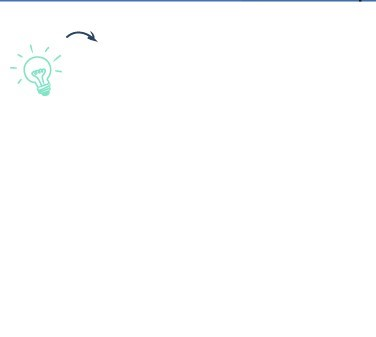
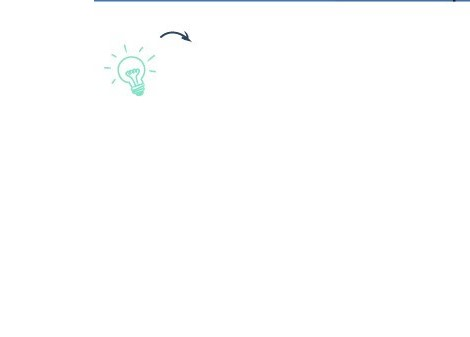
ni idea

diff --git a/index.html b/index.html
@@ -10,7 +10,6 @@
     <link rel="stylesheet" type="text/css" media="screen" href="styles.css">
     <link rel="stylesheet" type="text/css" media="screen" href="styles700.css">
     <link rel="stylesheet" href="https://use.fontawesome.com/releases/v5.8.1/css/all.css" integrity="sha384-50oBUHEmvpQ+1lW4y57PTFmhCaXp0ML5d60M1M7uH2+nqUivzIebhndOJK28anvf" crossorigin="anonymous">    
-    <!-- <script src="main.js"></script> -->
 </head>
 
 <body>
@@ -22,7 +21,7 @@
                     <a href="https://twitter.com/SergioMassa" target="_blank"><i class="fab fa-twitter"></i></a>
                     <a href="https://www.facebook.com/SergioMassaOK/" target="_blank"><i class="fab fa-facebook-f"></i></a>
                     <a href="https://www.instagram.com/sergiomassaok" target="_blank"><i class="fab fa-instagram"></i></a>
-                    <a href="https://twitter.com/SergioMassa" target="_blank"><i class="fab fa-linkedin"></i></a>
+                    <a href="https://www.linkedin.com/in/massasergio/ " target="_blank"><i class="fab fa-linkedin"></i></a>
             </div>
             <div class="divTitle">
                 <p id="pTitle">PONGAMOS A LA ARGENTINA DE PIE</p>
@@ -35,15 +34,18 @@
          </section>                                   
     </section>
     <div id="divContent">
+        <div class="marginLeft">
+                <!-- <img src="img/ArgentinaDePie_ContentBackground_MarginLeft.jpg" alt="..." class="img-thumbnail"> -->
+        </div>
         <section class="gridOptions">
             <div id="divBlock"></div>            
-            <div id="divTextElegi">Elegí en que categoria entra tu idea.</div>              
+            <div id="divTextElegi">Elegí en qué categoría entra tu idea.</div>              
             <div class="divCategoria">                
                 <button class="btnCategoria" id="btnCategoriaCrecimiento" data-toggle="collapse" data-target="#crecimiento">CRECIMIENTO Y DESARROLLO</button>                                     
             </div>
             <div class="divFormulario collapse" id="crecimiento">
                 <div class="textFormulario">
-                    <p class="pCategorias">¿Qué politicas creés que deben llevarse a cabo para que podamos tener un pais con un crecimiento y desarrollo sostenido?</p>
+                    <p class="pCategorias">¿Qué políticas creés que deben llevarse a cabo para que podamos tener un país con un crecimiento y desarrollo sostenido?</p>
                     <p class="pContanos">¡CONTANOS!</p>
                     <div class="input-group">                            
                         <textarea class="form-control" aria-label="With textarea"></textarea>
@@ -155,7 +157,7 @@
             </div>
             <div class="divFormulario collapse" id="trabajo">
                 <div class="textFormulario">
-                    <p class="pCategorias">¿Qué se te ocurre para asegurar trabajo digno para todos?</p>
+                    <p class="pCategorias">¿Qué se te ocurre para asegurar trabajo digno para todas y todos?</p>
                     <p class="pContanos">¡CONTANOS!</p>
                     <div class="input-group">                            
                         <textarea class="form-control" aria-label="With textarea"></textarea>
@@ -183,7 +185,7 @@
             </div>
             <div class="divFormulario collapse" id="delito">
                 <div class="textFormulario">
-                    <p class="pCategorias">Escribí acá si tenés alguna idea, para que todos podamos vivir seguros y en paz.</p>
+                    <p class="pCategorias">Escribí acá si tenés alguna idea, para que todas y todos podamos vivir seguros y en paz.</p>
                     <p class="pContanos">¡CONTANOS!</p>
                     <div class="input-group">                            
                         <textarea class="form-control" aria-label="With textarea"></textarea>
@@ -267,7 +269,7 @@
             </div>
             <div class="divFormulario collapse" id="modernizacion">
                 <div class="textFormulario">
-                    <p class="pCategorias">¿Qué ideas se te ocurren para construir un gobierno más transparente y que responda mejor a las necesidades de los argentinos?</p>
+                    <p class="pCategorias">¿Qué ideas se te ocurren para construir un Gobierno más transparente y que responda mejor a las necesidades de los argentinos?</p>
                     <p class="pContanos">¡CONTANOS!</p>
                     <div class="input-group">                            
                         <textarea class="form-control" aria-label="With textarea"></textarea>
@@ -295,7 +297,7 @@
             </div>
             <div class="divFormulario collapse" id="desarrollofederal">
                 <div class="textFormulario">
-                    <p class="pCategorias">¿Qué idea tenés para lograr que, sin importar en qué provincia nazcas, las oportunidades sean igual para todas y todos?</p>
+                    <p class="pCategorias">¿Qué idea tenés para lograr que, sin importar en qué provincia nazcas, las oportunidades sean iguales para todas y todos?</p>
                     <p class="pContanos">¡CONTANOS!</p>
                     <div class="input-group">                            
                         <textarea class="form-control" aria-label="With textarea"></textarea>
@@ -347,6 +349,7 @@
                 </div>
             </div>             
         </section>
+        <div class="marginRight"></div>
     </div>
 
     <div class="footer">
@@ -358,7 +361,7 @@
                         <a href="https://twitter.com/SergioMassa" target="_blank"><i style="padding:0" class="fab fa-linkedin fabBottom"></i></a>
                 </div>
                 <div class="hayAlternativa">
-                    @HayAlternativa
+                    #HayAlternativa
                 </div>
         </div>
     </div>
@@ -368,30 +371,52 @@
     <script src="https://code.jquery.com/jquery-3.3.1.slim.min.js" integrity="sha384-q8i/X+965DzO0rT7abK41JStQIAqVgRVzpbzo5smXKp4YfRvH+8abtTE1Pi6jizo" crossorigin="anonymous"></script>
     <script src="https://cdnjs.cloudflare.com/ajax/libs/popper.js/1.14.7/umd/popper.min.js" integrity="sha384-UO2eT0CpHqdSJQ6hJty5KVphtPhzWj9WO1clHTMGa3JDZwrnQq4sF86dIHNDz0W1" crossorigin="anonymous"></script>
     <script src="https://stackpath.bootstrapcdn.com/bootstrap/4.3.1/js/bootstrap.min.js" integrity="sha384-JjSmVgyd0p3pXB1rRibZUAYoIIy6OrQ6VrjIEaFf/nJGzIxFDsf4x0xIM+B07jRM" crossorigin="anonymous"></script>
-    <script>
     
-            var white = false
-            var bgcolor;
-            
-            jQuery(document).ready(function () 
-            {
+    <script>
 
-                jQuery("#btnCategoriaCrecimiento").click(function () 
-                {                       
-                    // alert("btn2");                
-                    bgcolor = $(this).css('backgroundColor');      
-                    // alert($(this));                                  
-                    console.log($(this));
-                    if (bgcolor == "rgb(151, 37, 130)") 
-                    {                                        
-                        $(this).css("background-color", "#004466");
-                    } 
-                    else 
-                    {                        
-                        $(this).css("background-color", rgb(151, 37, 130));
-                    }                    
-                });
+        
+
+        $('.divFormulario').click(function(e){
+            alert("fn");
+
+            var all_toggle = $('.divFormulario').hide();
+
+            var thisToggle = $(this).parent().find('.divFormulario'),
+                isShowing = thisSpan.is(":visible");
+
+            // Hide all spans
+            all_toggle.hide();
+
+            // If our span *wasn't* showing, show it
+            if (!isShowing) {
+                thisSpan.show();
+            }
+
+            e.preventDefault();
         });
-            </script>
+            
+        //     var white = false
+        //     var bgcolor;        
+            
+        //     jQuery(document).ready(function () 
+        //     {
+
+        //         jQuery("#btnCategoriaCrecimiento").click(function () 
+        //         {                       
+        //             // alert("btn2");                
+        //             bgcolor = $(this).css('backgroundColor');      
+        //             // alert($(this));                                  
+        //             console.log($(this));
+        //             if (bgcolor == "rgb(151, 37, 130)") 
+        //             {                                        
+        //                 $(this).css("background-color", "#004466");
+        //             } 
+        //             else 
+        //             {                        
+        //                 $(this).css("background-color", rgb(151, 37, 130));
+        //             }                    
+        //         });
+        // });
+        </script>
 </body>
 </html>

diff --git a/styles.css b/styles.css
@@ -23,11 +23,11 @@
 
     body 
     {    
-    background: #f5f7f8;
-    margin:0;
-    color:white;
-    text-align: center;
-    font-family: chivoBold;
+        background: #f5f7f8;
+        margin:0;
+        color:white;
+        text-align: center;
+        font-family: chivoBold;
     }
 
     .btnMasCategorias
@@ -35,44 +35,41 @@
         display:none;
     }
 
-  .fab
-  {
+    .fab
+    {
     color:white;
     padding:3vh;
-  }
+    }
   
-  p
-  {
+    p
+    {
     margin:0 !important;
-  }
+    }
 
-  hr
-  {
-      /* margin:0 10vw 0 10vw !important; */
-      margin:0 !important;      
-      border-top: 2px solid white;
-  }
+    hr
+    {
+        /* margin:0 10vw 0 10vw !important; */
+        margin:0 !important;      
+        border-top: 2px solid white;
+    }
 
 
-  .gridPrincipal
-  {
-    /* display: grid; */
-    width: 100vw;
-    height: fit-content;
-    /* min-height: 220px; */
-    /* max-width: 100%; */
-    margin:0 auto;
-    background-image: url(img/ArgentinaDePie_HeaderBackground.jpg);
-    background-position: center;
-    background-repeat: no-repeat;
-    /* display: block; */
-    background-size:cover;    
-    /* grid-template-columns: 1fr; */
-    grid-template-rows: auto;
-    /* grid-template-areas: "header"
-                         "main"
-                         "footer"; */
-  }
+    .gridPrincipal
+    {    
+        width: 100vw;
+        height: fit-content;
+        margin:0 auto;
+        background-image: url(img/ArgentinaDePie_HeaderBackground.jpg);
+        background-position: center;
+        background-repeat: no-repeat;
+        /* display: block; */
+        background-size:cover;    
+        /* grid-template-columns: 1fr; */
+        grid-template-rows: auto;
+        /* grid-template-areas: "header"
+                            "main"
+                            "footer"; */
+    }
 
   .divHeader
   {      
@@ -89,6 +86,14 @@
       grid-column-gap: 1vh;      
       grid-row-gap: 6vh;        
       padding-bottom: 4%;
+  }
+
+  .divContent
+  {
+    display: grid;
+    grid-template-columns: 17% 66% 17%;
+    background-color: white;
+
   }
 
   .gridOptions
@@ -173,13 +178,32 @@
 
 #divContent
 {
-    background-image: url(img/ArgentinaDePie_ContentBackground.jpg);
+    /* background-image: url(img/ArgentinaDePie_ContentBackground.jpg);
     background-position: center;
     background-repeat: no-repeat;
-    /* display: block; */
-    background-size:cover;   
+    background-size:cover;    */
     height:fit-content !important;    
     padding-bottom:4%;
+    display:grid;
+    grid-template-columns: 17% 66% 17%;
+    background-color: white;
+}
+
+.marginLeft
+{
+    background-image: url(img/ArgentinaDePie_ContentBackground_MarginLeft.png);
+    background-size:100%;
+    background-repeat: no-repeat;
+}
+
+.img-thumbnail 
+{
+    padding: unset;
+    background-color: transparent;
+    border: none;
+    border-radius: .25rem;
+    max-width: 100%;
+    height: auto;
 }
 
 #divBlock

diff --git a/stylesMobile.css b/stylesMobile.css
@@ -25,7 +25,7 @@
 
     .gridPrincipal
     {        
-        background-image: url(img/ArgentinaDePie_HeaderBackground_mobile.jpg) !important;
+        /* background-image: url(img/ArgentinaDePie_HeaderBackground_mobile.jpg) !important; */
         padding-bottom:5%;
     }
 
@@ -59,7 +59,7 @@
 
     #divContent
     {
-        background-image: url(img/ArgentinaDePie_ContentBackground_mobile.jpg) !important;        
+        /* background-image: url(img/ArgentinaDePie_ContentBackground_mobile.jpg) !important;         */
         /* background-position: center !important; */
         /* background-repeat: no-repeat; */
         /* display: block; */
@@ -140,10 +140,12 @@
     .divRedesBottom 
     {    
         width: unset !important;
+        font-size: 3.7vw !important;
     }
 
     textarea.form-control
     {
         height: 100px;
     }
+    
 }

diff --git a/styles700.css b/styles700.css
@@ -1,11 +1,11 @@
 @media screen and (max-width: 780px) and (min-width:600px)
 {
-    .gridPrincipal
+    /* .gridPrincipal
     {
         
         background-image: url(img/ArgentinaDePie_HeaderBackground_700.jpg);
 
-    }
+    } */
     
     .gridHeader {
         /* grid-template-rows: 7vw 10vw 10vw !important; */
@@ -49,11 +49,11 @@
         height: 8vw;
         font-size: 3vw;
     }
-
+/* 
     #divContent
     {
         background-image: url(img/ArgentinaDePie_ContentBackground_700.jpg);    
-    }
+    } */
     
     .divRedesBottom
     {    
